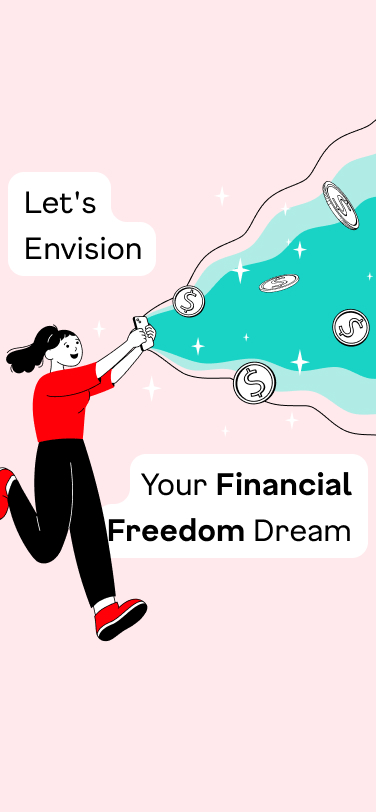
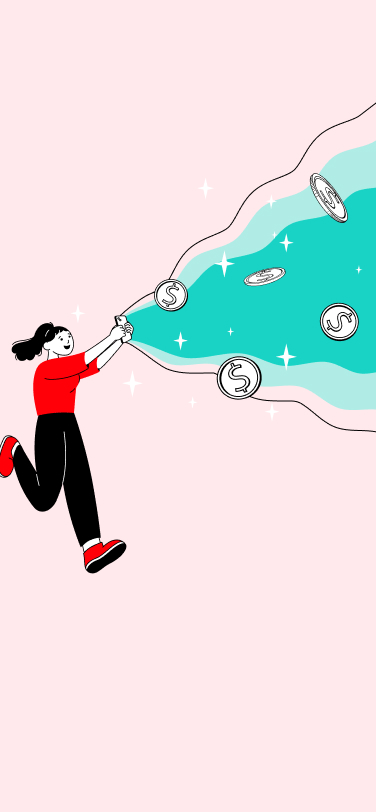
modify homepage

Changed region(s): [[0.0, 0.1232, 1.0, 0.8005], [0.0585, 0.2155, 0.3803, 0.3387]]

diff --git a/src/pages/introduction/index.tsx b/src/pages/introduction/index.tsx
@@ -1,5 +1,5 @@
 import WrapperLayouts from '../../layouts/wrapper/wrapper.layouts.tsx'
-import background from '@assets/svgs/introduction.svg'
+import background from '@assets/background/Intro.jpg'
 import Button from '@components/atom/button'
 import Buttonimage from '@components/atom/buttonimage'
 import { useNavigate } from 'react-router-dom'
@@ -47,28 +47,25 @@ const Introduction = () => {
     dream_v1.getDreamListDo()
   }, [dream_v1.paginate.filter])
   return (
-    <>
+    <div>
       <WrapperLayouts isFull={true}>
-        <div className='overflow-hidden max-h-screen'>
+        <div className='overflow-hidden min-h-screen' style={{background:`url(${background}) top center no-repeat`, backgroundSize:'cover'}}>
           <WrapperLayouts>
             <div className='head w-full max-h-[15vh] pt-5 '>
               <div className='text-left text-black absolute'>
                 <p className='body-2'>Welcome to</p>
                 <p className='body-2 font-bold'>The SingLife Dream Cube</p>
+                <div className="tagline mt-4">
+                  <h1>Let's <br/><b>Envision</b></h1>
+                </div>
               </div>
-            </div>
-          </WrapperLayouts>
-          <WrapperLayouts isFull={true}>
-            <div className='content w-full absolute top-10'>
-              <img
-                src={background}
-                className={classList[breakpoint ?? 'sm'].image}
-                alt='introduction'
-              />
             </div>
           </WrapperLayouts>
           <WrapperLayouts className={classList[breakpoint ?? 'sm'].footer}>
             <div className='footer'>
+              <div className="tagline mb-5 text-end">
+                <h1>Your <b>Finnancial</b><br/><b>Freedom</b>Dream</h1>
+              </div>
               <div className='action'>
                 <div className='mb-3'>
                   <Button
@@ -111,7 +108,7 @@ const Introduction = () => {
                     title={'Explore Dream Gallery'}
                     type='secondary'
                     onClick={handleExploreDreamGallery}
-                    images={dream_v1.data.map((item) => item.featured_image)}
+                    images={dream_v1.data?.map((item) => item.featured_image)}
                   />
                 </div>
               </div>
@@ -119,7 +116,7 @@ const Introduction = () => {
           </WrapperLayouts>
         </div>
       </WrapperLayouts>
-    </>
+    </div>
   )
 }
 

diff --git a/src/pages/dreams/index.tsx b/src/pages/dreams/index.tsx
@@ -45,7 +45,7 @@ const Dream = () => {
                 // count={numberComma(dream_v1.data.length)}
                 count={99999}
               />
-              {arrayEven(dream_v1.data).map((item) => (
+              {arrayEven(dream_v1.data)?.map((item) => (
                 <div key={item.id}>
                   <Gallery
                     onClick={() => handleYourDream(item.id)}
@@ -56,7 +56,7 @@ const Dream = () => {
               ))}
             </div>
             <div className='grid gap-4'>
-              {arrayOdd(dream_v1.data).map((item) => (
+              {arrayOdd(dream_v1.data)?.map((item) => (
                 <div key={item.id}>
                   <Gallery
                     onClick={() => handleYourDream(item.id)}

diff --git a/src/layouts/wrapper/wrapper.layouts.tsx b/src/layouts/wrapper/wrapper.layouts.tsx
@@ -5,12 +5,13 @@ type Props = {
   children: ReactNode
   isFull?: boolean
   className?: string
+  background?:string
 }
 const WrapperLayouts = ({ children, isFull = false, className }: Props) => {
   const responsive = useResponsive()
   if (responsive.breakpoint === 'xs' || responsive.breakpoint === 'sm') {
     return (
-      <div className={`w-full  ${!isFull && 'p-5'} ${className}`}>
+      <div  className={`w-full  ${!isFull && 'p-5'} ${className}`}>
         {children}
       </div>
     )

diff --git a/src/pages/question/RenderQuestion.tsx b/src/pages/question/RenderQuestion.tsx
@@ -153,7 +153,7 @@ const RenderQuestion: React.FC<Props> = ({
                 animate={isActive ? 'open' : 'closed'}
                 variants={motionConfig}
               >
-                {record.choices.map((item) => (
+                {record.choices?.map((item) => (
                   <div className='flex gap-3 items-center mb-3' key={item.id}>
                     <Radio
                       color={colorPicker(index)}

diff --git a/src/pages/question/index.tsx b/src/pages/question/index.tsx
@@ -65,7 +65,7 @@ const Question = () => {
   }, [quiz_service.data])
   return (
     <WrapperLayouts isFull={true}>
-      {quiz_service.data.map((record, index) => (
+      {quiz_service.data?.map((record, index) => (
         <RenderQuestion
           key={record.quest_id}
           record={record}

diff --git a/src/main.tsx b/src/main.tsx
@@ -1,7 +1,6 @@
 import React from 'react'
 import ReactDOM from 'react-dom/client'
 import './App.css'
-import './index.css'
 import 'animate.css'
 import { createBrowserRouter, RouterProvider } from 'react-router-dom'
 import routes from '@config/routes.tsx'
